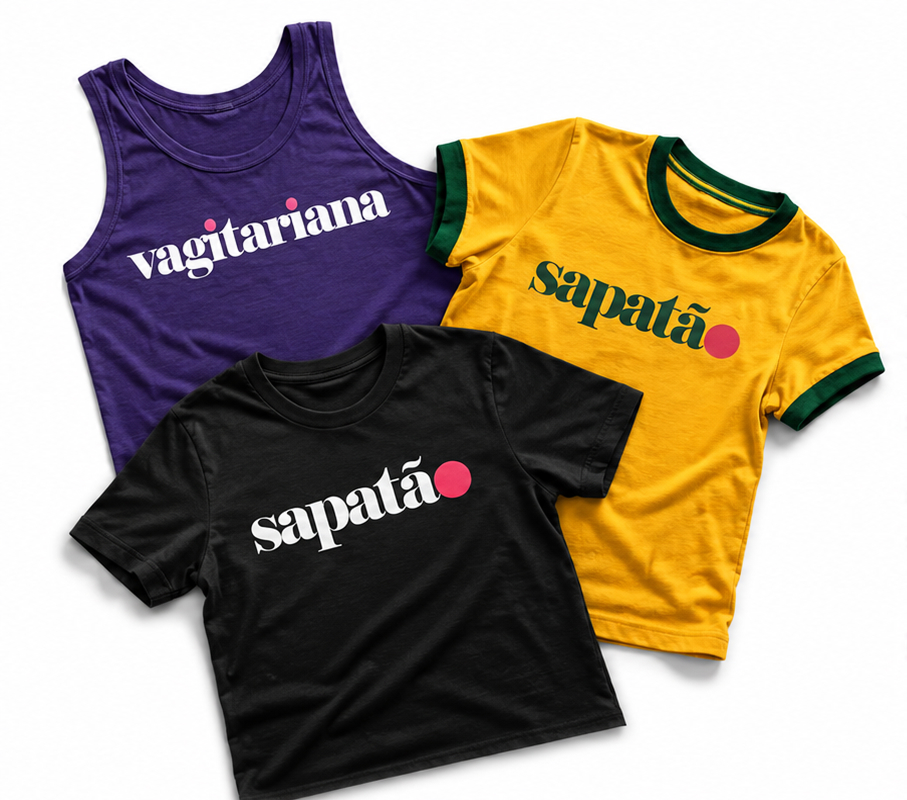
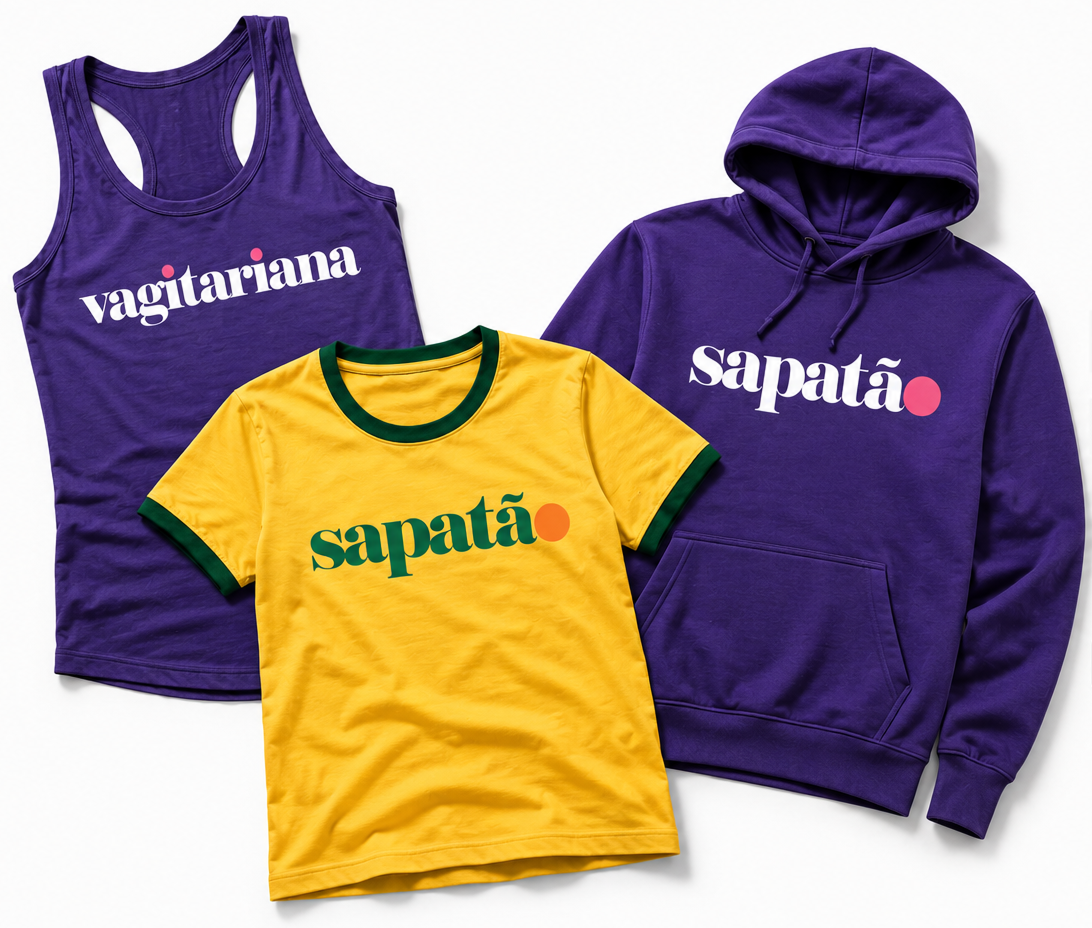
ajustes

diff --git a/src/lib/site-url.ts b/src/lib/site-url.ts
@@ -1,0 +1,41 @@
+/** URLs que nunca devem ser usadas como site público */
+function isInvalidPublicSiteUrl(url: string): boolean {
+  try {
+    const host = new URL(url).hostname;
+    return host.includes('supabase.co') || host === 'localhost' || host === '127.0.0.1';
+  } catch {
+    return true;
+  }
+}
+
+/**
+ * Base URL do site (sem barra final).
+ * Usada em links compartilhados (WhatsApp, etc.).
+ */
+export function getSiteBaseUrl(): string | null {
+  const configured = process.env.NEXT_PUBLIC_SITE_URL?.replace(/\/$/, '');
+  if (configured && !isInvalidPublicSiteUrl(configured)) {
+    return configured;
+  }
+
+  const vercel =
+    process.env.VERCEL_PROJECT_PRODUCTION_URL?.replace(/\/$/, '') ||
+    process.env.VERCEL_URL?.replace(/\/$/, '');
+  if (vercel) {
+    const host = vercel.replace(/^https?:\/\//, '');
+    return `https://${host}`;
+  }
+
+  return configured ?? null;
+}
+
+export function buildAbsoluteSiteUrl(path: string): string {
+  const normalizedPath = path.startsWith('/') ? path : `/${path}`;
+
+  if (typeof window !== 'undefined') {
+    return `${window.location.origin}${normalizedPath}`;
+  }
+
+  const base = getSiteBaseUrl();
+  return base ? `${base}${normalizedPath}` : normalizedPath;
+}

diff --git a/src/lib/supabase/map-product.ts b/src/lib/supabase/map-product.ts
@@ -1,4 +1,5 @@
 import type { ProdutoLoja } from '@/lib/loja-data';
+import { buildAbsoluteSiteUrl } from '@/lib/site-url';
 import type { ProductBadge, ProductCategory, StoreProduct } from './database.types';
 
 const CATEGORY_LABEL: Record<ProductCategory, ProdutoLoja['categoria']> = {
@@ -21,11 +22,7 @@ export const DEFAULT_WHATSAPP_MESSAGE =
   'Olá! Tenho interesse no {produto} ({preco}). Cor: {cor}. Tamanho: {tamanho}.\n\nLink: {link}';
 
 export function buildProductPageUrl(slug: string): string {
-  const path = `/loja?produto=${encodeURIComponent(slug)}`;
-  const base = process.env.NEXT_PUBLIC_SITE_URL?.replace(/\/$/, '');
-  if (base) return `${base}${path}`;
-  if (typeof window !== 'undefined') return `${window.location.origin}${path}`;
-  return path;
+  return buildAbsoluteSiteUrl(`/loja?produto=${encodeURIComponent(slug)}`);
 }
 
 export function buildWhatsappUrl(

diff --git a/src/components/loja/LojaPageContent.tsx b/src/components/loja/LojaPageContent.tsx
@@ -15,6 +15,7 @@ import {
   type CategoriaFiltro,
   type ProdutoLoja,
 } from '@/lib/loja-data';
+import { buildWhatsappUrl } from '@/lib/supabase/map-product';
 
 const ACCENT = '#93296F';
 const { hero, filtros } = CONTEUDO_LOJA;
@@ -87,7 +88,7 @@ function ProdutoCard({
         <div className="flex items-center justify-between">
           <span className="font-serif text-xl font-bold text-primary">{produto.preco}</span>
           <a
-            href={produto.shopUrl}
+            href={buildWhatsappUrl(produto)}
             target="_blank"
             rel="noopener noreferrer"
             aria-label={`Comprar ${produto.nome} via WhatsApp`}